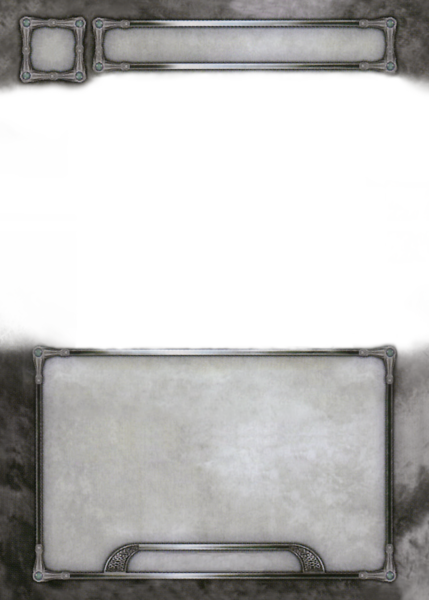
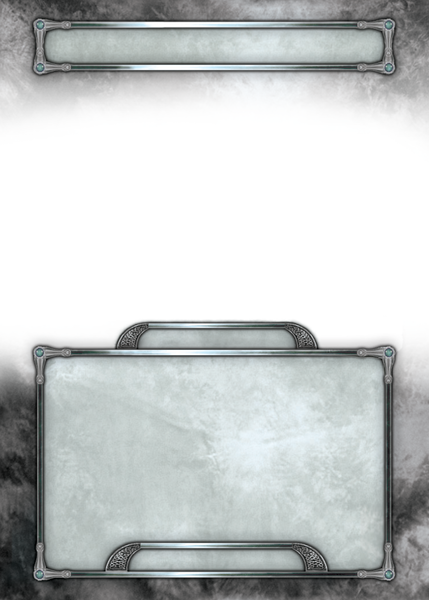
Update Player Objective template

diff --git a/Frogmorton/common.js b/Frogmorton/common.js
@@ -50,7 +50,7 @@ pageInRegion['Rules'] = '48,488,317,15';
 
 var sideRegion = {};
 sideRegion['Contract'] = '0,279,413,17';
-sideRegion['Player Region'] = '0,279,413,17';
+sideRegion['Player Objective'] = '0,310,413,17';
 
 var encounterSet1PortraitRegion = {};
 encounterSet1PortraitRegion['Quest'] = '450,213,20,20';
@@ -815,7 +815,7 @@ translate['Objective Hero'] = {'English': 'Objective-Hero', 'French': 'Objectif-
 	'Polish': 'Cel-Bohater', 'Italian': 'Eroe-Obiettivo', 'Portuguese': 'Objetivo-Her\u00f3i'};
 translate['Objective Location'] = {'English': 'Objective-Location', 'French': 'Objectif-Lieu', 'German': 'Ziel-Ort', 'Spanish': 'Lugar-Objetivo', 'Polish': 'Cel-Obszar',
 	'Italian': 'Luogo-Obiettivo', 'Portuguese': 'Objetivo-Localiza\u00e7\u00e3o'};
-translate['Player Objective'] = {'English': 'Player Objective', 'French': 'Objectif', 'German': 'Spieler-Ziel', 'Spanish': 'Objetivo', 'Polish': 'Cel',
+translate['Player Objective'] = {'English': 'Player Objective', 'French': 'Objectif Joueur', 'German': 'Spieler-Ziel', 'Spanish': 'Objetivo', 'Polish': 'Cel',
 	'Italian': 'Obiettivo dei Giocatori', 'Portuguese': 'T.B.D.'};
 translate['Player Side Quest'] = {'English': 'Side Quest', 'French': 'Qu\u00eate Annexe', 'German': 'Nebenabenteuer', 'Spanish': 'Misi\u00f3n Secundaria',
 	'Polish': 'Poboczna wyprawa', 'Italian': 'Ricerca Secondaria', 'Portuguese': 'Miss\u00e3o Secund\u00e1ria'};
